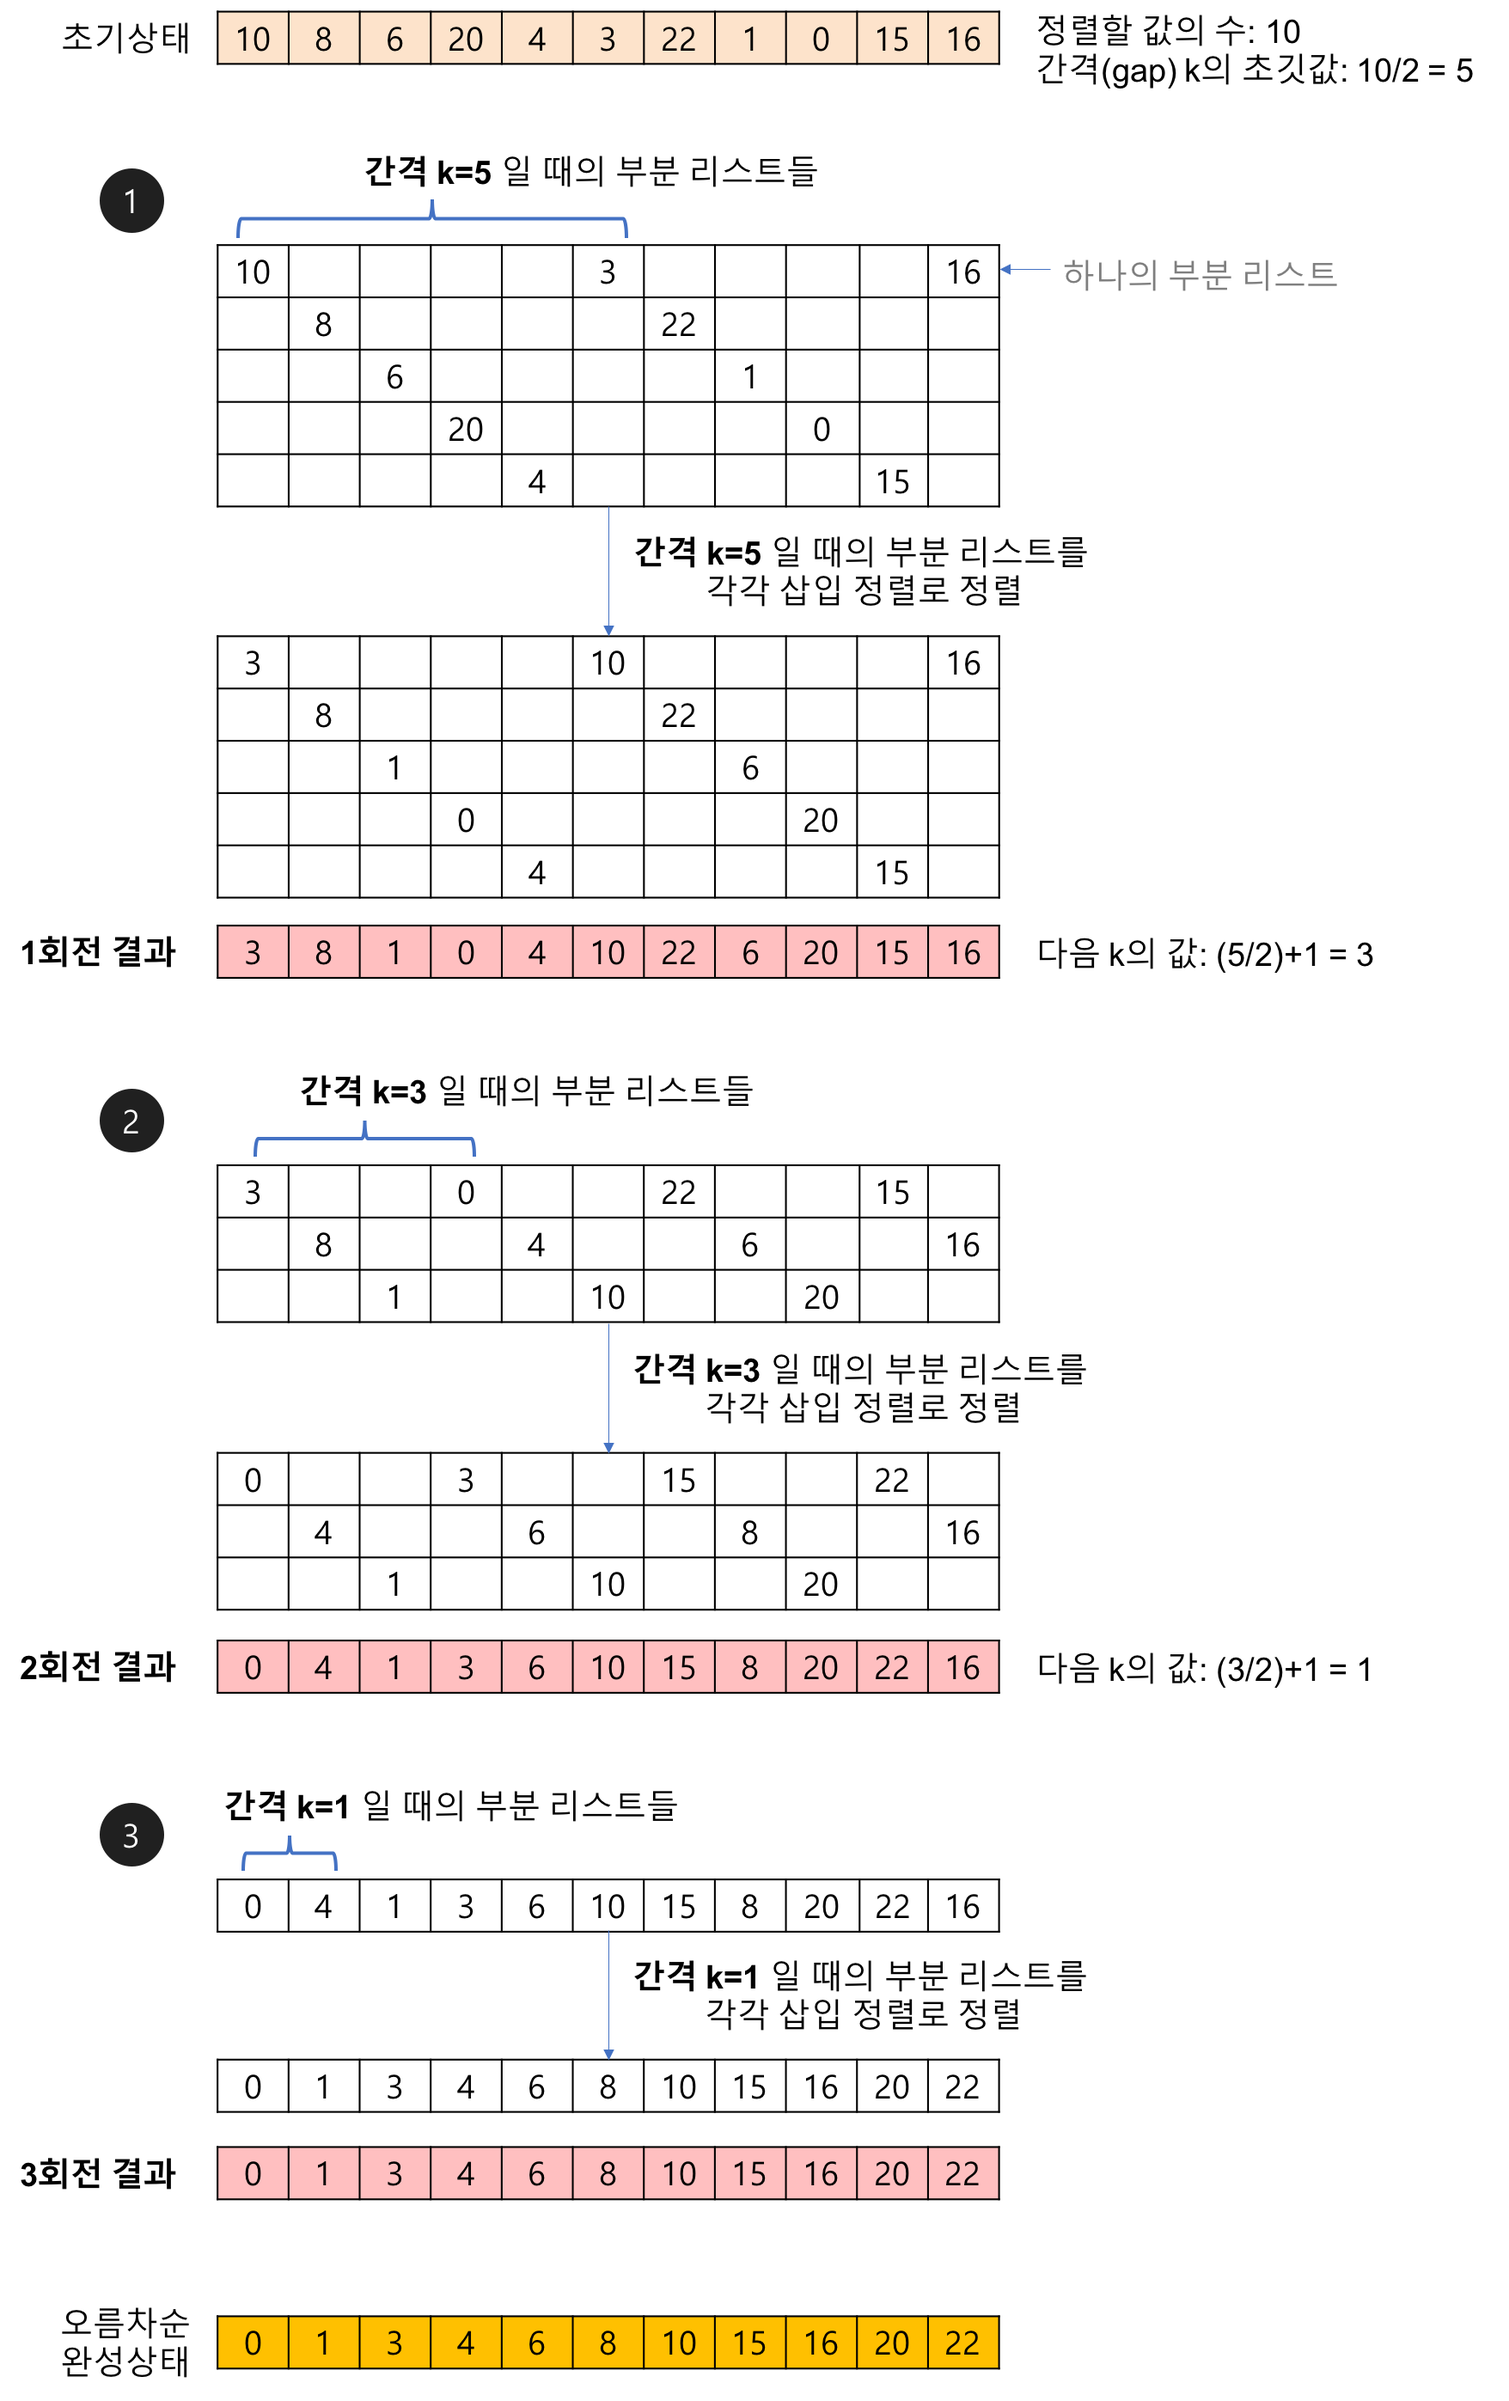
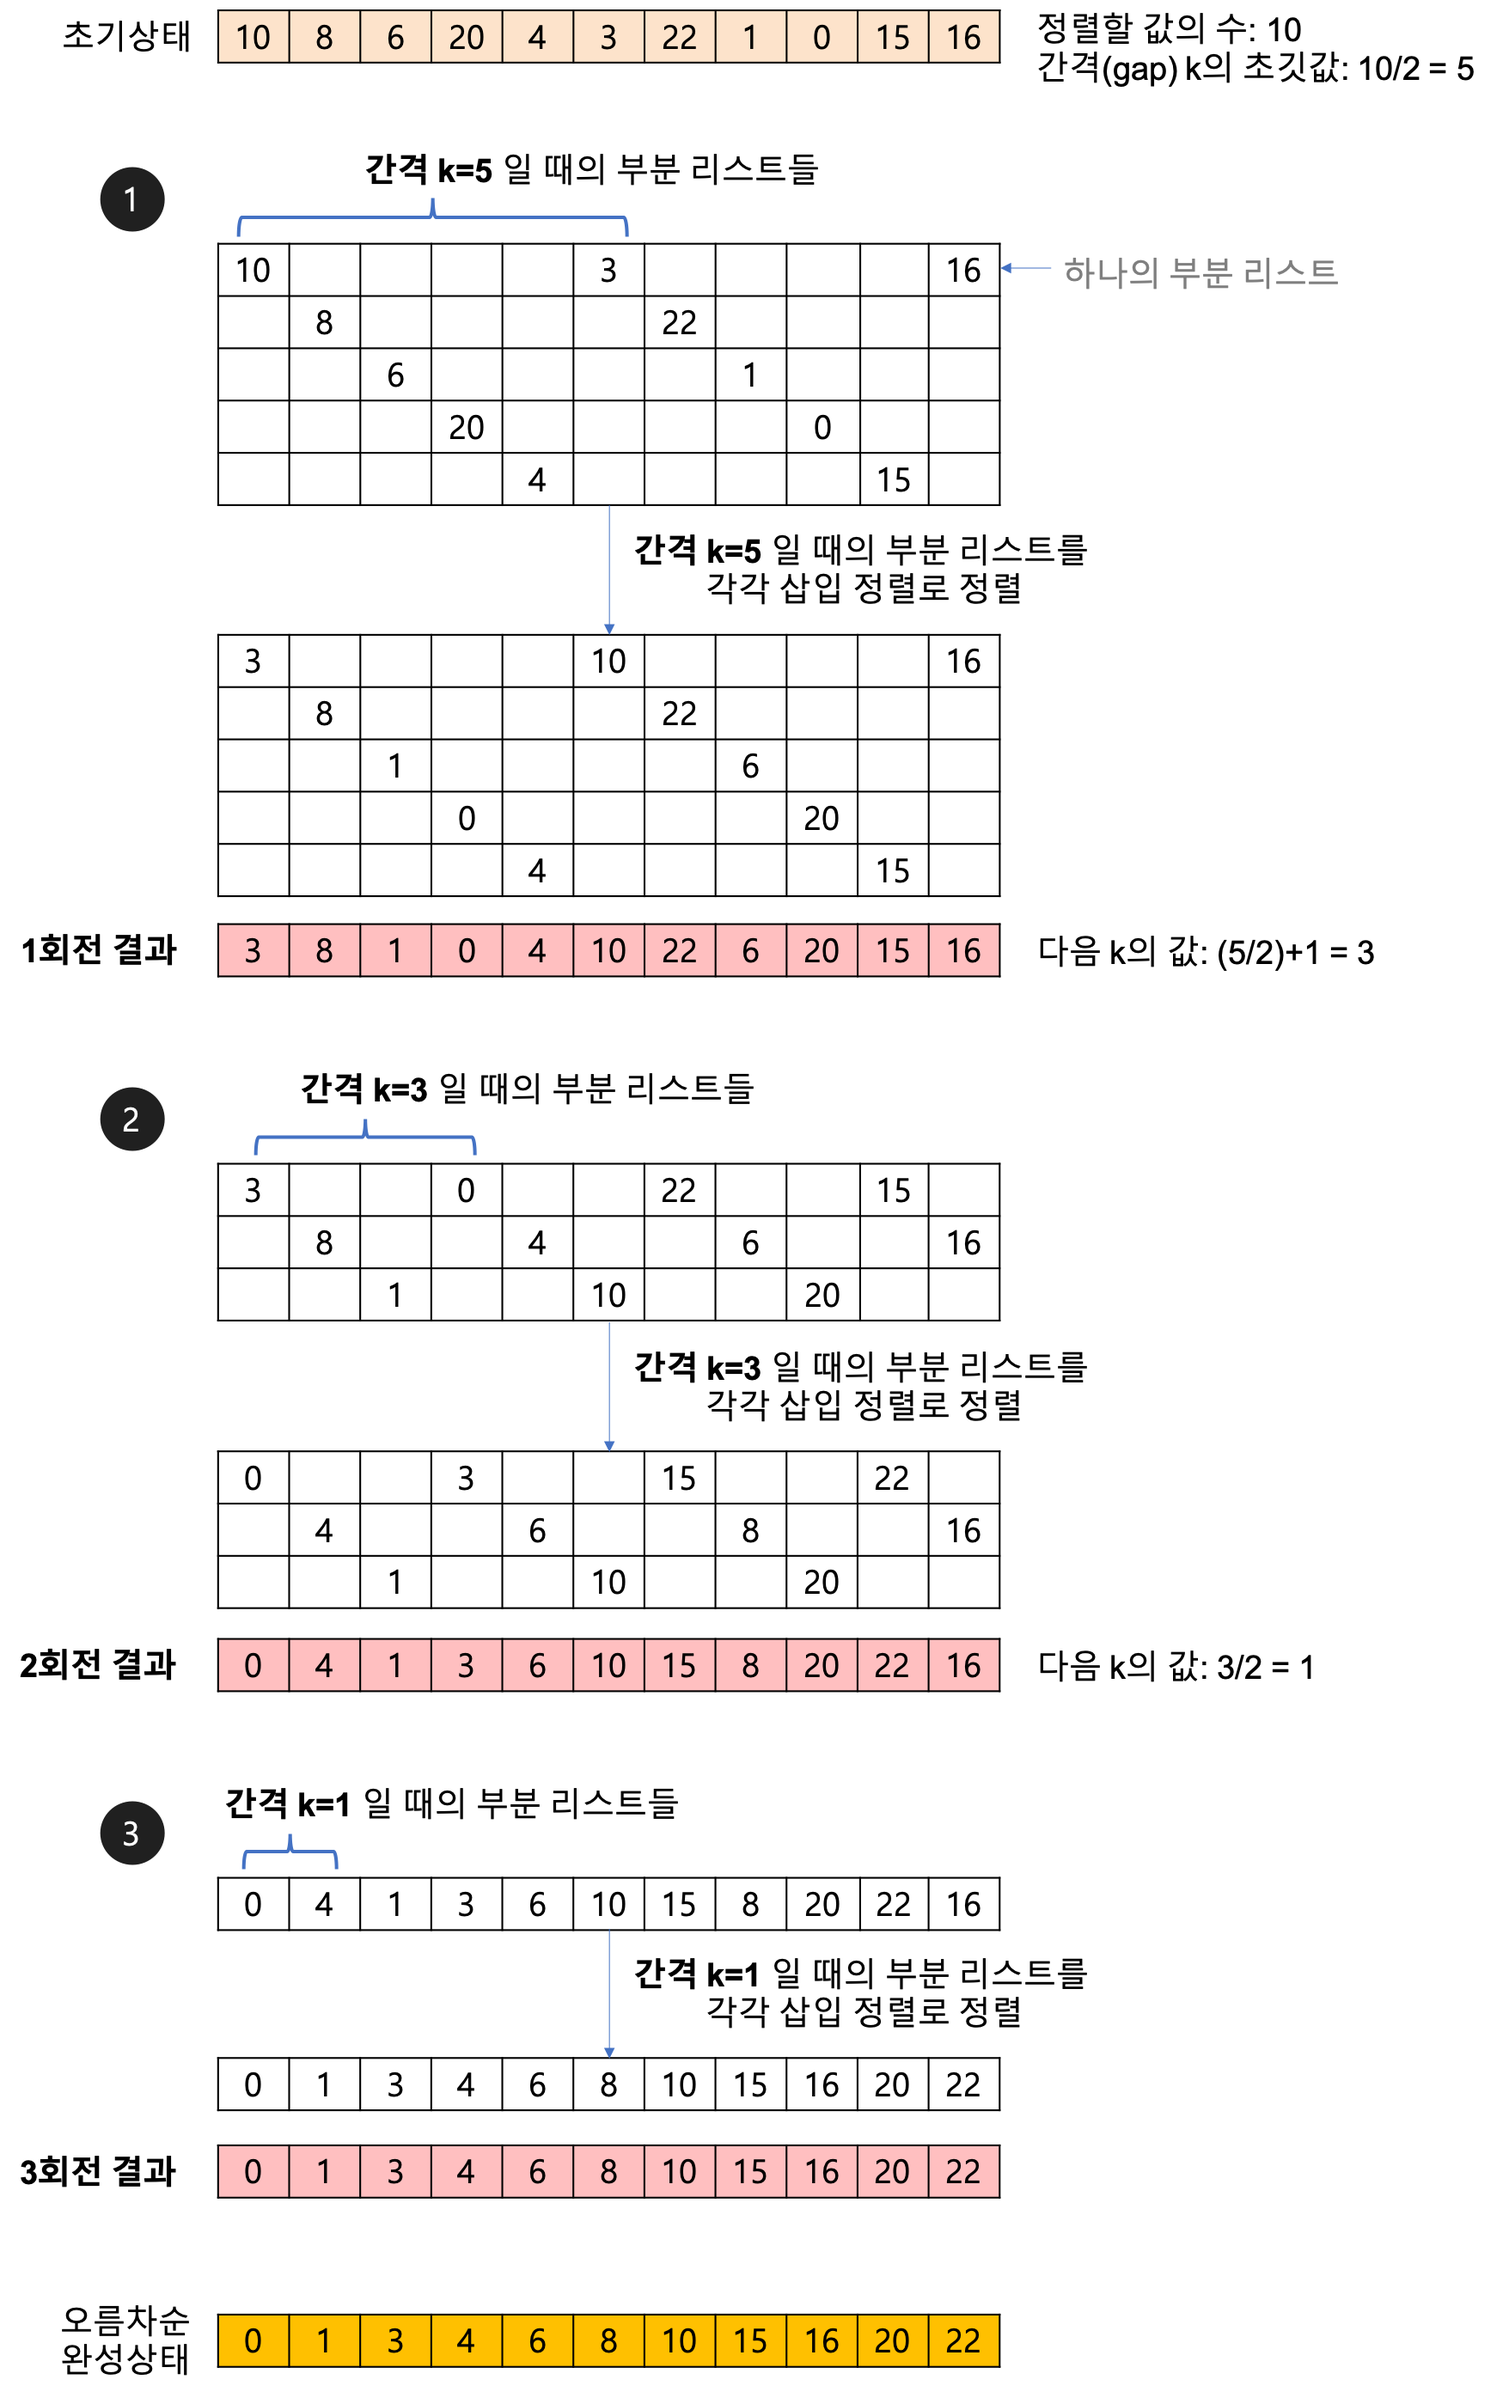
Fix typo

diff --git a/_posts/2018-05-08-algorithm-shell-sort.md b/_posts/2018-05-08-algorithm-shell-sort.md
@@ -44,6 +44,8 @@ sitemap :
   * 간격의 초깃값: (정렬할 값의 수)/2
   * 생성된 부분 리스트의 개수는 gap과 같다.
 * 각 회전마다 간격 k를 절반으로 줄인다. 즉, 각 회전이 반복될 때마다 하나의 부분 리스트에 속한 값들의 개수는 증가한다.
+  * 간격은 홀수로 하는 것이 좋다.
+  * 간격을 절반으로 줄일 때 짝수가 나오면 +1을 해서 홀수로 만든다.
 * 간격 k가 1이 될 때까지 반복한다.
 * ![](/images/algorithm-shell-sort/shell-sort-concepts.png)
 
@@ -56,9 +58,9 @@ sitemap :
 * 1회전
   * 처음 간격을 (정렬할 값의 수:10)/2 = 5로 하고, 다섯 번째 요소를 추출해서 부분 리스트를 만든다. 만들어진 5개의 부분 리스트를 삽입 정렬로 정렬한다.
 * 2회전
-  * 다음 간격은 = (5/2)+1 = 3으로 하고, 1회전 정렬한 리스트에서 세 번째 요소를 추출해서 부분 리스트를 만든다. 만들어진 3개의 부분 리스트를 삽입 정렬로 정렬한다.
+  * 다음 간격은 = (5/2:짝수)+1 = 3으로 하고, 1회전 정렬한 리스트에서 세 번째 요소를 추출해서 부분 리스트를 만든다. 만들어진 3개의 부분 리스트를 삽입 정렬로 정렬한다.
 * 3회전
-  * 다음 간격은 = (3/2)+1 = 1으로 하고, 간격 k가 1이므로 마지막으로 정렬을 수행한다. 만들어진 1개의 부분 리스트를 삽입 정렬로 정렬한다.
+  * 다음 간격은 = (3/2) = 1으로 하고, 간격 k가 1이므로 마지막으로 정렬을 수행한다. 만들어진 1개의 부분 리스트를 삽입 정렬로 정렬한다.
 
 
 <!-- ## 셸 정렬(shell sort) java 코드

diff --git a/_posts/2018-09-21-rest-and-restful.md b/_posts/2018-09-21-rest-and-restful.md
@@ -23,14 +23,14 @@ sitemap :
 ![](/images/network/rest.png)
 ### REST란
 * REST의 정의
-  * **"Representational State Transfer(대표적인 상태 전달)"** 의 약자
-    * 자원을 이름(자원의 대표)으로 구분하여 해당 자원의 상태(정보)를 주고 받는 모든 것을 의미한다.
-    * 즉, *자원(resource)의 대표(representation)* 에 의한 *상태 전달*
-      1. 자원(resource)의 대표(representation)
+  * **"Representational State Transfer"** 의 약자
+    * 자원을 이름(자원의 표현)으로 구분하여 해당 자원의 상태(정보)를 주고 받는 모든 것을 의미한다.
+    * 즉, *자원(resource)의 표현(representation)* 에 의한 *상태 전달*
+      1. 자원(resource)의 표현(representation)
         * 자원: 해당 소프트웨어가 관리하는 모든 것
         * -> Ex) 문서, 그림, 데이터, 해당 소프트웨어 자체 등
-        * 자원의 대표: 그 자원을 대표하기 위한 이름
-        * -> Ex) DB의 학생 정보가 자원일 때, 'students'를 자원의 대표라 정한다.
+        * 자원의 표현: 그 자원을 표현하기 위한 이름
+        * -> Ex) DB의 학생 정보가 자원일 때, 'students'를 자원의 표현으로 정한다.
       2. 상태(정보) 전달
         * 데이터가 요청되어지는 시점에서 자원의 상태(정보)를 전달한다.
         * JSON 혹은 XML를 통해 데이터를 주고 받는 것이 일반적이다.
